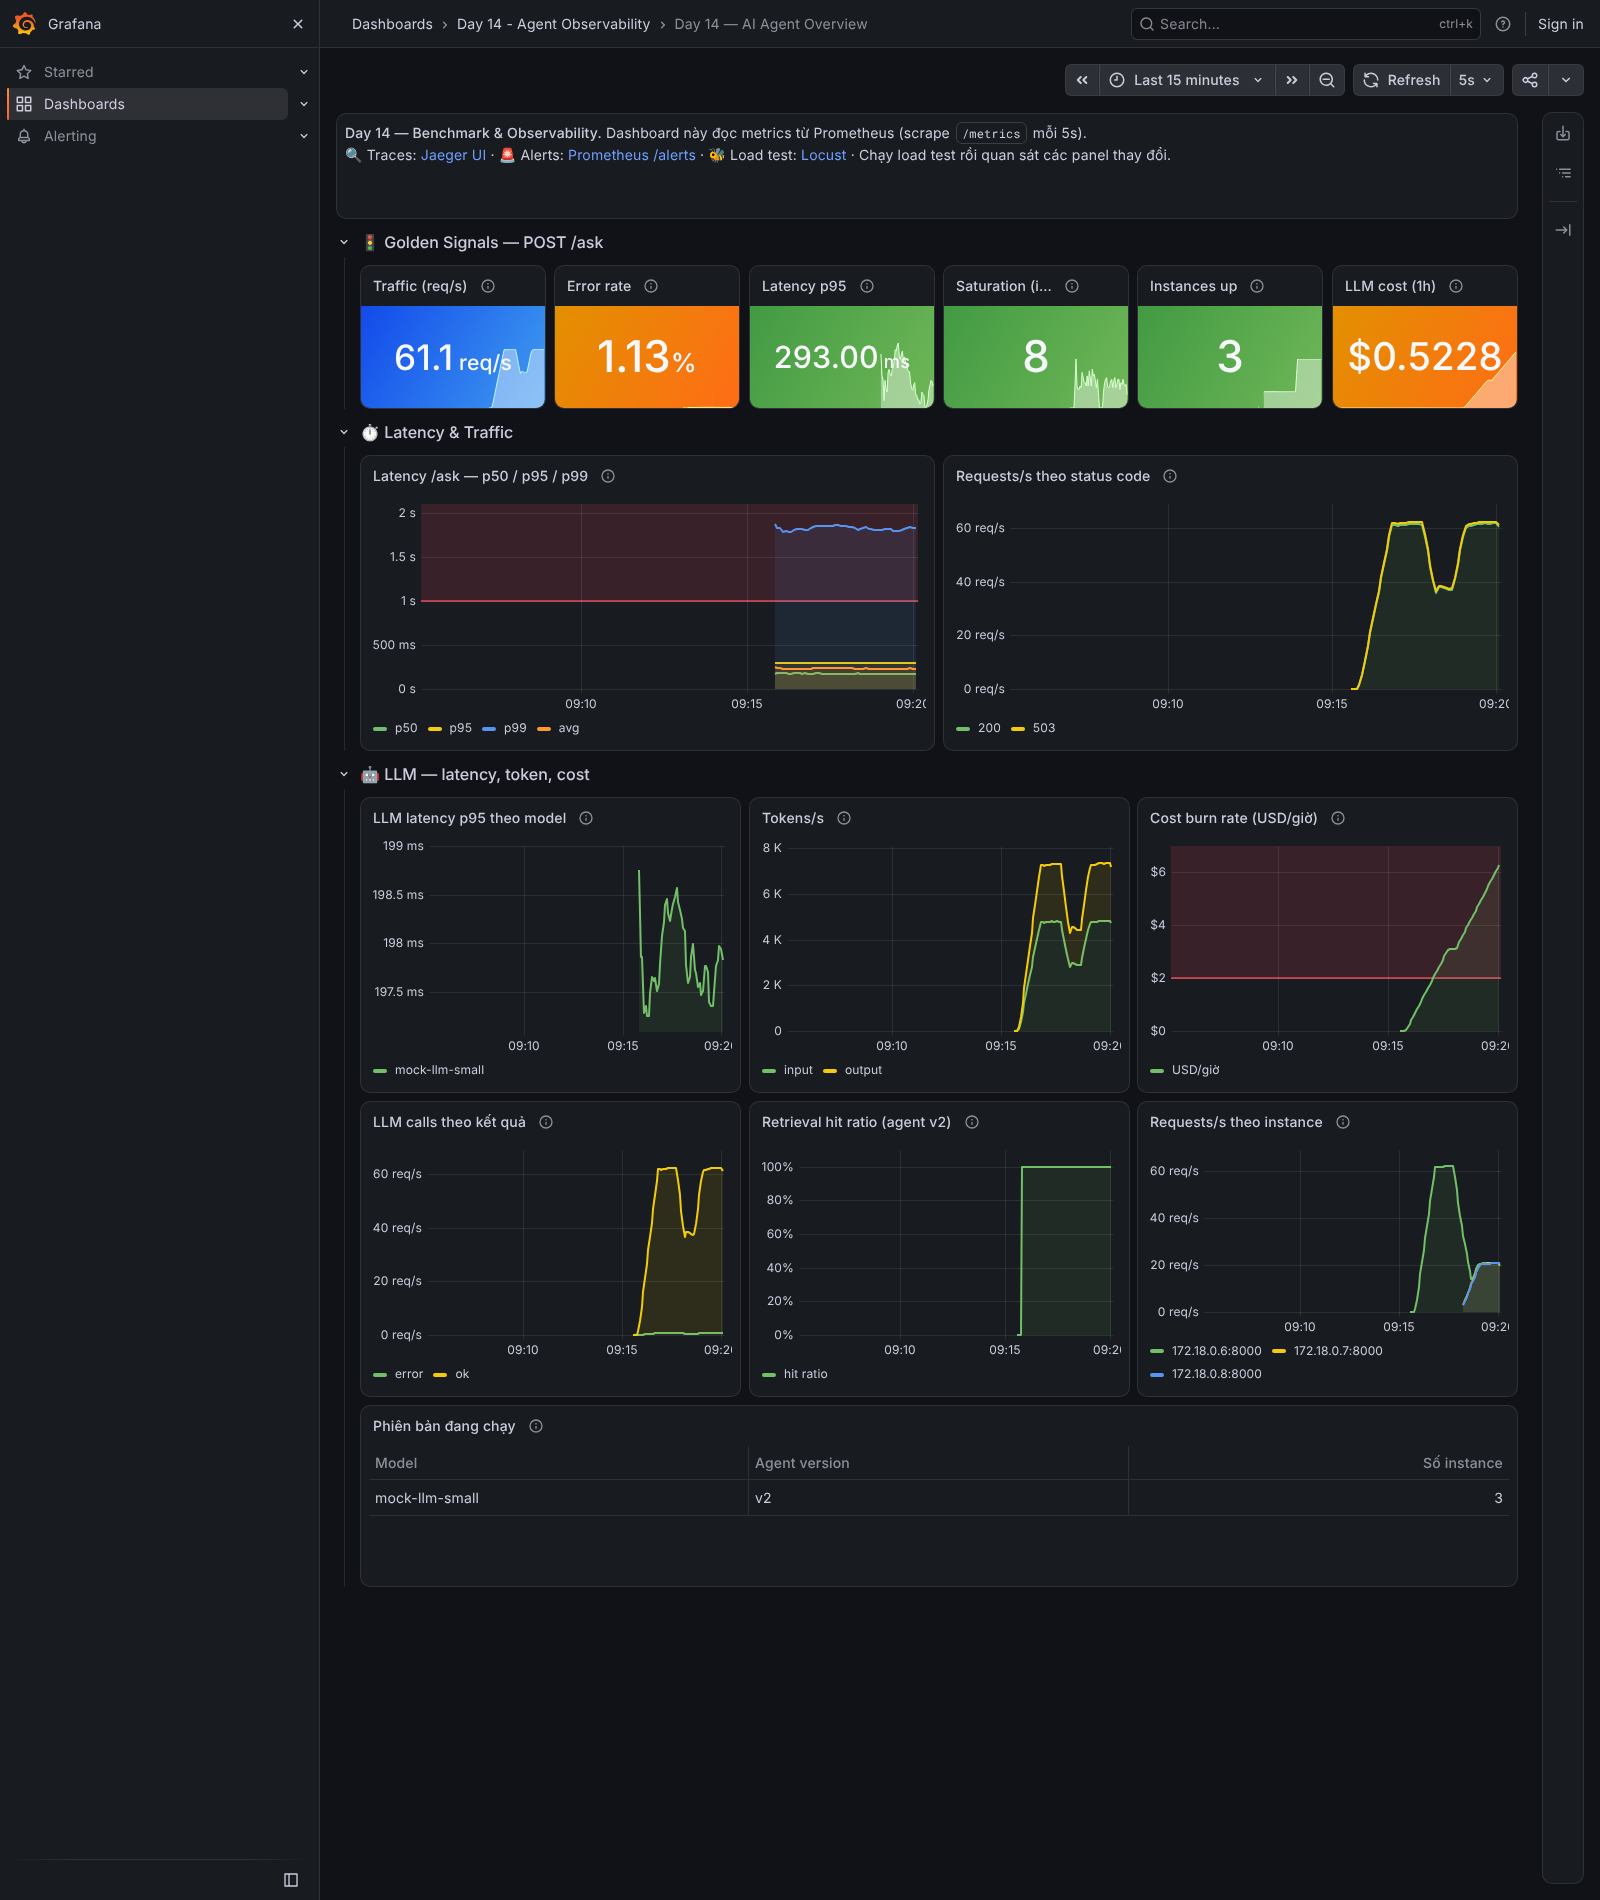
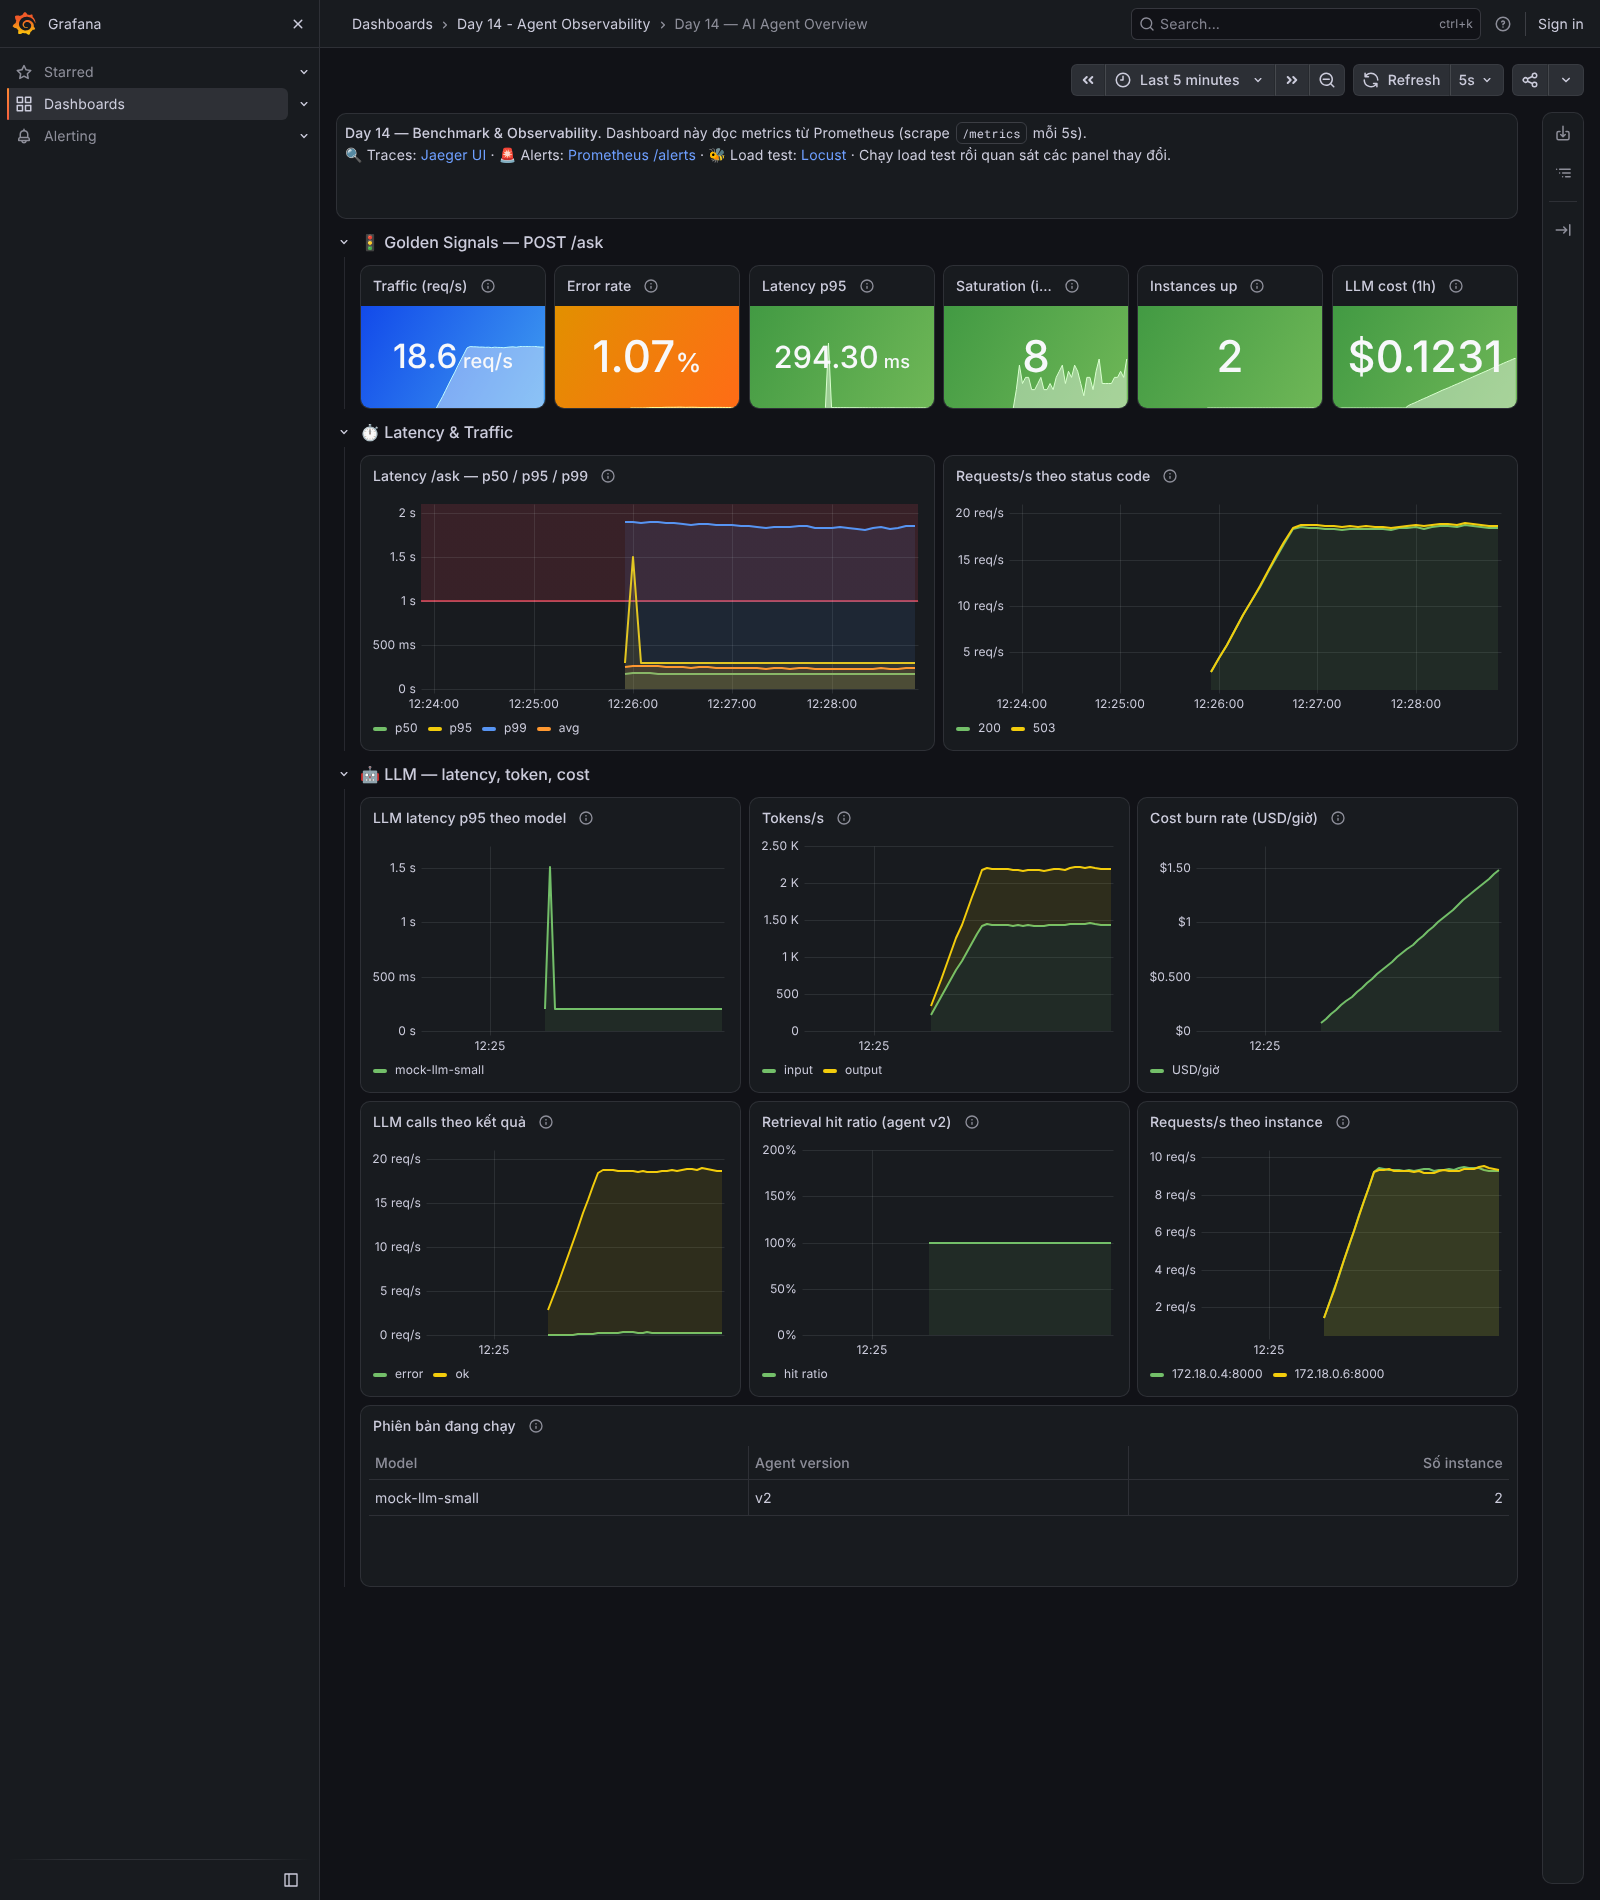
docs: retake Grafana screenshot under Exercise 7.4 conditions (30 users, 2 instances)
Previous capture was taken during the 100-user scale benchmark, so cost
burn rate and LLM cost panels were over threshold. Exercise 7.4 answers
updated with numbers queried from Prometheus at capture time.

Claude-Session: https://claude.ai/code/session_01MTmULUUqV4bQNYgBRawjqZ

diff --git a/BENCHMARK_REPORT.md b/BENCHMARK_REPORT.md
@@ -81,16 +81,16 @@ Stack chạy bằng `docker compose -p k5-day14-observability ...` (Prometheus, 
 
 ### 4.1 Screenshot
 
-- [x] Dashboard Grafana khi đang có tải: `screenshots/grafana-dashboard.png` (3 instance, Locust 100 user: 61.1 req/s, error 1.13 %, p95 293 ms, in-flight 8, LLM cost 1h $0.5228)
+- [x] Dashboard Grafana khi đang có tải: `screenshots/grafana-dashboard.png`, chụp đúng điều kiện Exercise 7.4: 2 instance, Locust **30 user / ramp up 5**. Số đọc được: 18.6 req/s, error 1.07 %, p95 294.3 ms, in-flight 8, LLM cost 1h $0.1231, không alert nào firing
 - [x] Một trace chậm trong Jaeger: `screenshots/jaeger-slow-trace.png`
 - [x] Một trace lỗi trong Jaeger: `screenshots/jaeger-error-trace.png` (POST /ask 503, span `chat mock-llm-small` có `error.type=upstream_unavailable`, mở rộng event `exception` thấy `exception.message`, `exception.stacktrace`, `exception.type = utils.mock_llm.LLMError`)
 - [x] Trang Alerts của Prometheus: `screenshots/prometheus-alert-firing.png` (`AgentHighErrorRate` và `AgentInstanceDown` cùng **FIRING**)
 
-**Exercise 7.4: trả lời câu hỏi** (số đọc từ ảnh Grafana, đang chạy 100 user, 3 instance)
+**Exercise 7.4: trả lời câu hỏi** (số đọc từ ảnh Grafana và query Prometheus cùng lúc chụp: 30 user, 2 instance)
 
-1. **p95 = 293 ms, còn avg ≈ 200–230 ms** (Locust ghi avg của `/ask` = 231 ms trong `scale_3_stats.csv`), p99 ≈ 1.9 s. p95 và avg gần nhau nên phần lớn request đồng đều. Còn p99 gấp ~8 lần avg là do khoảng 3 % request "slow" (tail latency): nhìn avg sẽ không thấy được nhóm này.
-2. **Có chia đều.** Panel "Requests/s theo instance" lúc chạy 3 agent cho 3 đường gần trùng nhau (~20 req/s mỗi instance), vì Nginx `upstream` mặc định round-robin. Lúc chạy 1 instance thì toàn bộ ~60 req/s dồn vào một đường.
-3. **Input tokens/s (~7.5 K) lớn hơn output tokens/s (~4.8 K)** vì agent v2 nhét câu hỏi + system prompt + tài liệu retrieval vào prompt, còn câu trả lời ngắn. Log `llm_call` cho thấy điển hình `input_tokens=95, output_tokens=55`. Nhưng output token đắt gấp 4 lần input (0.0006 so với 0.00015 USD/1K), nên cần theo dõi cả hai.
+1. **p95 = 294 ms, avg = 242 ms, p99 = 1862 ms.** p95 và avg gần nhau nên ~95 % request đồng đều quanh ~200–300 ms. Còn p99 gấp ~7.7 lần avg là do ~3 % request bị chậm thêm 1500 ms (`MOCK_SLOW_RATE=0.03`, tail latency): nhìn avg sẽ không thấy nhóm này. Error rate 1.07 % (cam) cũng do lỗi giả lập `MOCK_ERROR_RATE=0.01`, vẫn dưới SLO 2 %.
+2. **Có chia đều.** Panel "Requests/s theo instance" có 2 đường gần trùng nhau: 172.18.0.4 = 9.29 req/s, 172.18.0.6 = 9.31 req/s, vì Nginx `upstream` mặc định round-robin.
+3. **Input tokens/s (~1432) lớn hơn output tokens/s (~752)** vì agent v2 nhét câu hỏi + system prompt + tài liệu retrieval vào prompt, còn câu trả lời ngắn. Log `llm_call` cho thấy điển hình `input_tokens=95, output_tokens=55`. Nhưng output token đắt gấp 4 lần input (0.0006 so với 0.00015 USD/1K), nên cần theo dõi cả hai.
 4. `curl http://localhost:8080/metrics` trả về **404 Not Found** của Nginx. Lý do là `nginx.conf` có `location = /metrics { return 404; }`: metrics để Prometheus scrape trực tiếp từng agent trong mạng nội bộ `obs_net`, không mở ra ngoài, vì nó lộ route, lưu lượng và thông tin hệ thống. Thêm nữa, qua load balancer mỗi lần sẽ trúng một instance khác nhau nên số liệu cũng vô nghĩa.
 
 Unit test alert rules: `promtool test rules /p/alert_rules_test.yml` → `SUCCESS`.
